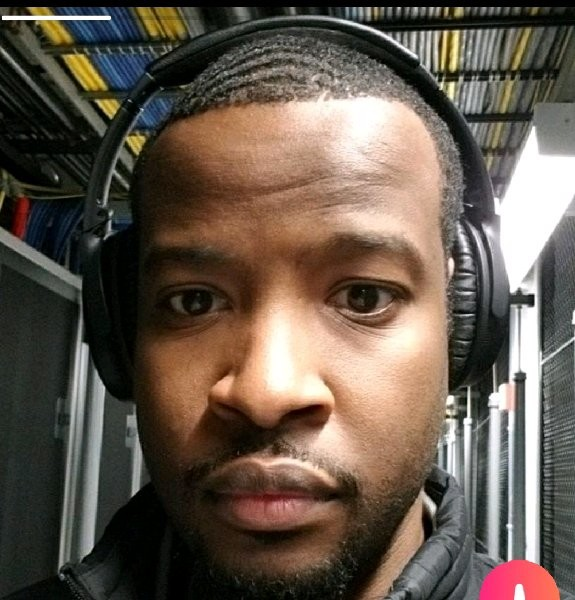
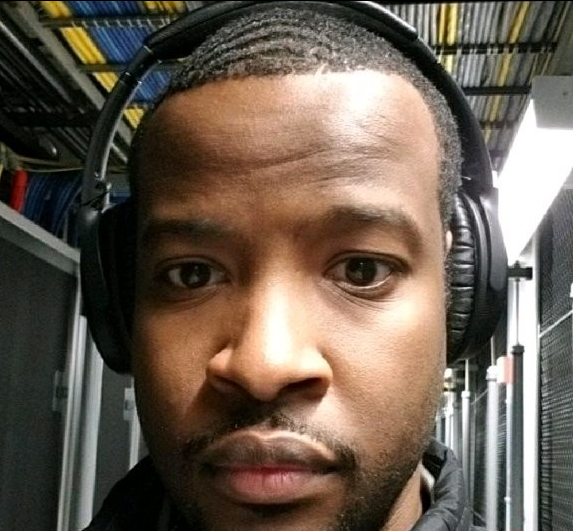
commit of recent changes

diff --git a/index.html b/index.html
@@ -5,65 +5,64 @@
     <!-- Title -->
     <meta charset="UTF-8">
     <meta lang="en">
-    <title> Ulric Todman's Student Bio</title>
+    <title> Ulric Todman's Website</title>
     <link rel="stylesheet" type="text/css" href="assets/css/style.css">
 </head>
 
 <body>
-    <div class="awning">
-        <!--Main Body-->
-        <h1>Ulric Todman</h1>
-    </div>
+    <!--Navigation and Awning-->
+    <section class="heading">
+
+        <!--Awning-->
+        <div class="awning">
+            <h1>Ulric Todman</h1>
+        </div>
+
+
+        <!--navigation links-->
+        <div class="navbar">
+            <a href="index.html">Home</a>
+            <a href="portfolio.html">Portfolio</a>
+            <a href="contact.html">Contact Me</a>
+        </div>
+
+    </section>
+    <!--Main Content-->
 
     <section class="contentbox">
-        <div class="lefttext">
+        <div class="biotext">
+
             <h2>About Me</h2>
 
-            <img src="https://www.fillmurray.com/200/200" class="portrait">
+            <img src="assets/img/myheadshot.png" class="portrait">
 
 
 
             <!--- Bio Paragraph-->
-            <p> I was born in NYC and have lived here all of my life. Born and raised in Harlem, I have
-                worked at a
-                datacenter
-                in Tribeca for the past 12 years.</p>
+            <p> Born and raised in NYC, I have worked at a datacenter in Tribeca for the past 12 years.</p>
             <br>
-            <p>At vero eos et accusamus et iusto odio dignissimos ducimus qui blanditiis praesentium
-                voluptatum
-                deleniti atque
-                corrupti quos dolores et quas molestias excepturi sint occaecati cupiditate non provident,
-                similique
-                sunt in
-                culpa qui officia deserunt mollitia animi, id est laborum et dolorum fuga. Et harum quidem rerum
-                facilis est et
-                expedita distinctio. Nam libero tempore, cum soluta nobis est eligendi optio cumque nihil impedit
-                quo
-                minus id
-                quod maxime placeat facere possimus, omnis voluptas assumenda est, omnis dolor repellendus.
-                Temporibus
-                autem
-                quibusdam et aut officiis debitis aut rerum necessitatibus saepe eveniet ut et voluptates
-                repudiandae
-                sint et
-                molestiae non recusandae. Itaque earum rerum hic tenetur a sapiente delectus, ut aut reiciendis
-                voluptatibus
-                maiores alias consequatur aut perferendis doloribus asperiores repellat.</p>
-        </div>
-        <!-- Contact information-->
+            <p>I've always been interested in coding and computing. My father had an attempt at a tech startup (a
+                virtual trade show platform), and that
+                allowed me to become familiar with the datacenter space. As an adolescent and teen I often attended
+                2600 meetings and made small html websites
+                in my free time. I now want to expand my abilities and contribute in a more meaningful and creative
+                way. The ability to code opens
+                a lot of doors in regards to making ideas functional and shareable.
 
-        <div class="righttext">
+            </p>
+        </div>
+        <div class="contact">
             <h2>Contact Info</h2>
             <ul>
-                <li><strong>Email:</strong><a href="mailto:rick.sinclair.nyc@gmail.com" target="_blank">rick.sinclair.nyc@gmail.com</a></li>
+                <li><strong>Email:</strong><a href="mailto:rick.sinclair.nyc@gmail.com" target="_blank">rick.sinclair.nyc@gmail.com
+                    </a></li>
                 <li><strong>Github:</strong><a href="https://github.com/ricksinclair/" target="_blank">Rick's Github
                     </a></li>
                 <li><strong>Portfolio:</strong><a href="http://www.ulrictodman.com" target="_blank">UlricTodman.com
-                        Coming
-                        Soon!</a></li>
-
-
+                        Coming Soon! </a></li>
             </ul>
+
+
         </div>
     </section>
 </body>

diff --git a/assets/css/style.css b/assets/css/style.css
@@ -1,23 +1,32 @@
+body {
+  background-image: "/assets/img/qbkls.png";
+}
+
+.heading {
+  display: flex;
+  flex-wrap: wrap;
+  justify-content: space-between;
+  background: white;
+}
+
 .awning {
-  background-color: black;
+  background-color: #4aaaa5;
   color: white;
-  border-style: dashed;
-  border-width: 10px;
-  border-color: black;
-  margin: auto;
-  text-align: center;
+  text-align: left;
 }
 
 .portrait {
-  display: block;
   border-style: groove;
   border-width: 10px;
   border-color: black;
   margin-left: auto;
   margin-right: auto;
   float: left;
+  width: 300px;
+  height: 300px;
 }
-.lefttext {
+
+.biotext {
   float: left;
   text-align: left;
   word-wrap: break-word;
@@ -25,8 +34,7 @@
   font-family: "Lucida Sans", "Lucida Sans Regular", "Lucida Grande",
     "Lucida Sans Unicode", Geneva, Verdana, sans-serif;
 }
-
-.righttext {
+.contact {
   float: right;
   text-align: right;
   text-align: justify;
@@ -36,6 +44,10 @@
 
 .contentbox {
   display: flex;
+  width: 960px;
+  justify-content: center;
   margin-right: auto;
   margin-left: auto;
+  background-color: grey;
+  padding-top: 75px;
 }
